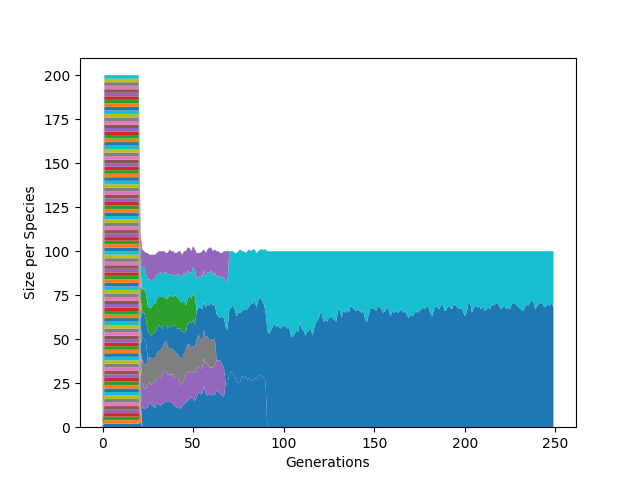
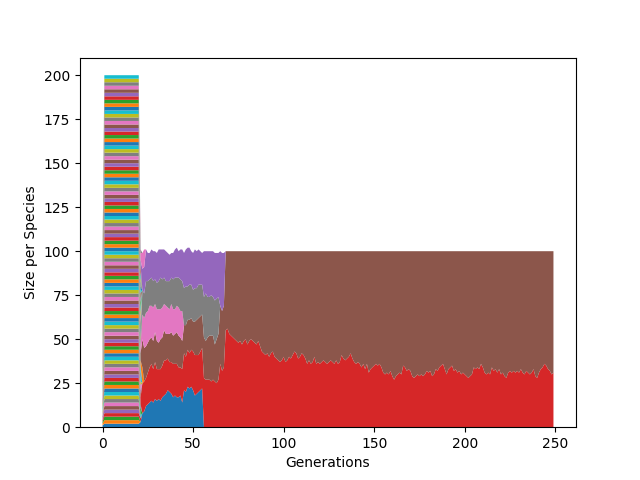
Reached over 1000 with NEAT, Tentative changes for GP

Changed region(s): [[0.2188, 0.5, 0.875, 0.9062]]

diff --git a/main.py b/main.py
@@ -159,6 +159,7 @@ if __name__ == "__main__":
             tournament_size = int(config['GP']['tournament_size'])
             hof_size = int(config['GP']['hof_size'])
             max_tree_size = int(config['GP']['max_tree_size'])
+            max_tree_height = int(config['GP']['max_tree_height'])
 
             toolbox = base.Toolbox()
 
@@ -169,14 +170,16 @@ if __name__ == "__main__":
             toolbox.register("individual", tools.initIterate, creator.Individual, toolbox.expr_init)
             toolbox.register("population", tools.initRepeat, list, toolbox.individual)
             toolbox.register("evaluate", eval_program, primitive_set=primitive_set)
-            toolbox.register("select", tools.selTournament, tournsize=tournament_size)
+            toolbox.register("select", tools.selDoubleTournament, fitness_size=tournament_size, parsimony_size=1.0, fitness_first=True)
             toolbox.register("mate", gp.cxOnePoint)
             toolbox.register("expr_mut", gp.genFull, min_=0, max_=2)
             toolbox.register("mutate", gp.mutUniform, expr=toolbox.expr_mut, pset=primitive_set)
 
             # BLOAT control
-            toolbox.decorate("mate", gp.staticLimit(operator.attrgetter("height"), max_tree_size))
-            toolbox.decorate("mutate", gp.staticLimit(operator.attrgetter("height"), max_tree_size))
+            toolbox.decorate("mate", gp.staticLimit(len, max_tree_size))
+            toolbox.decorate("mutate", gp.staticLimit(len, max_tree_size))
+            toolbox.decorate("mate", gp.staticLimit(operator.attrgetter("height"), max_tree_height))
+            toolbox.decorate("mutate", gp.staticLimit(operator.attrgetter("height"), max_tree_height))
 
             if num_runs == 1:
                 pop = toolbox.population(n=pop_size)
@@ -188,7 +191,7 @@ if __name__ == "__main__":
                 stats.register("max", numpy.max)
 
                 try:
-                    final_pop, logbook = algorithms.eaSimple(pop, toolbox, crossover_prob, mutation_prob, num_generations, stats, halloffame=hof)
+                    final_pop, logbook = algorithms.eaMuPlusLambda(pop, toolbox, pop_size, pop_size, crossover_prob, mutation_prob, num_generations, stats, halloffame=hof)
                 except (Exception, KeyboardInterrupt) as e:
                     print(e)
                     traceback.print_exc()

diff --git a/run_game.py b/run_game.py
@@ -530,23 +530,22 @@ def run(win, net=None, routine=None):
         if net:  # TODO pass to the network relevant information as input
             outputs = net.activate((battleship.x,
                                     battleship.vel,
-                                    battleship.health,
+                                    # battleship.health,
                                     aliens_x[0],
                                     aliens_x[1],
                                     laser_x[0],
                                     laser_y[0],
                                     laser_x[1],
                                     laser_y[1],
-                                    laser_x[2],
-                                    laser_y[2],
-                                    laser_x[3],
-                                    laser_y[3],
-                                    laser_x[4],
-                                    laser_y[4],
-                                    laser_x[5],
-                                    laser_y[5],
-                                    enemy_spaceships_x[0]
-                                    ))
+                                    # laser_x[2],
+                                    # laser_y[2],
+                                    # laser_x[3],
+                                    # laser_y[3],
+                                    # laser_x[4],
+                                    # laser_y[4],
+                                    # laser_x[5],
+                                    # laser_y[5],
+                                    enemy_spaceships_x[0]))
             i = np.argmax(np.array(outputs))
             keys = {
                 K_LEFT: i == 0 or i == 1,

diff --git a/utils.py b/utils.py
@@ -70,6 +70,7 @@ def save_best_neat(genome, network, config, stats):
     plot_utils.draw_net(config, genome, filename=f"{dirname}/representation", view=False)
     plot_utils.plot_stats(stats, view=True, filename=f"{dirname}/avg_fitness.png")
     plot_utils.plot_species(stats, view=True, filename=f"{dirname}/speciation.png")
+    pickle.dump(stats, open(os.path.join(dirname, 'stats.pkl'), "wb"))
 
     best_genome, _ = load_best_neat()
     if best_genome is None or best_genome.fitness < genome.fitness:
@@ -100,6 +101,7 @@ def save_best_gp(program, logbook):
     plot_utils.plot_tree(nodes, edges, labels, "best", dirname)
     if logbook is not None:
         plot_utils.plot_trends(logbook, "best", dirname)
+        pickle.dump(logbook, open(os.path.join(dirname, 'logbook.pkl'), "wb"))
 
     best_program = load_best_gp()
     if best_program is None or best_program.fitness.values[0] < program.fitness.values[0]:
